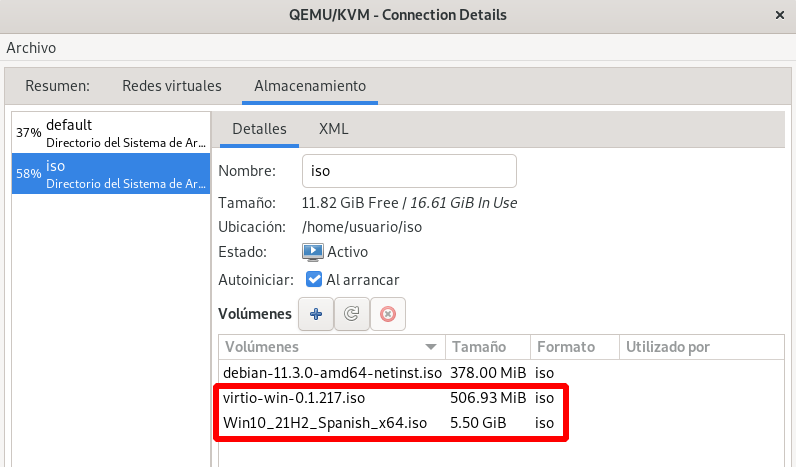
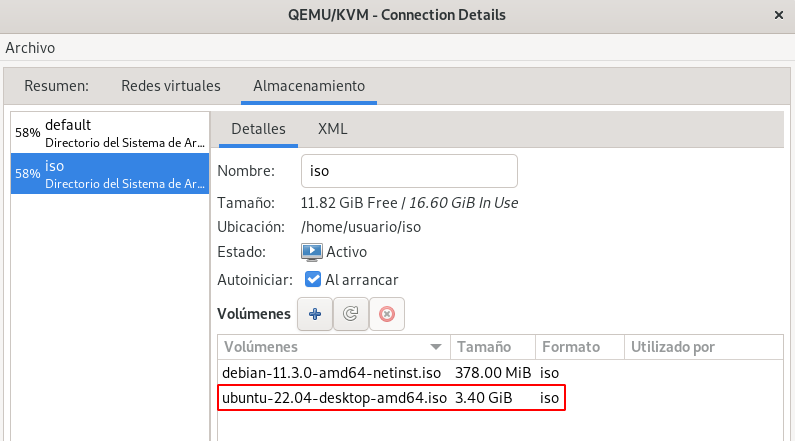
modulo4

Changed region(s): [[0.0, 0.0, 1.0, 1.0]]

diff --git a/modulo4/linux.md b/modulo4/linux.md
@@ -1,0 +1,50 @@
+# Creación de máquinas virtuales Linux
+
+Vamos a estudiar los pasos fundamentales para la creación de una máquina virtual. en este caso vamos a crear una máquina virtual con el sistema operativo GNU/Linux Ubuntu. Observaremos que la información que vamos indicando en virt-manager es la misma que utilizamos para la creación d máquinas con la herramienta `virt-install`.
+
+Antes de empezar la creación de la nueva máquina, hemos copiado en el pool de almacenamiento **ISO** (directorio `~/iso`) una imagen ISO para la instalación de Ubuntu:
+
+![virt-manager](img/virt-manager7.png)
+
+Para crear una nueva máquina virtual con virt-manager podemos escoger la opción de menú **Archivo -> Nueva máquina virtual**, o el botón del menú:
+
+![virt-manager](img/virt-manager6.png)
+
+A continuación seguimos los pasos del asistente para la creación de la máquina virtual:
+
+## Elegir la fuente de instalación del sistema operativo
+
+Elegimos como fuente de instalación: instalación local desde una imagen ISO que se montará en un CDRON. En este apartado también podemos escoger la arquitectura de la máquina que vamos a utilizar.
+
+![virt-manager](img/virt-manager8.png)
+
+## Seleccionar la ISO de instalación
+
+Elegimos fichero ISO desde donde vamos a relalizar la instalación. Si no se detecta la variante del sistema operativo, tenemos que añadirla manualmente escogiendo la versión más parecida a la que vamos a instalar.
+
+![virt-manager](img/virt-manager9.png)
+
+## Configuración de memoria y de VCPU
+
+A continuación, asignamos la memoria y el número de vCPU a la nueva máquina que estamos creando.
+
+![virt-manager](img/virt-manager10.png)
+
+## Seleccionar almacenamiento
+
+En este paso, habilitamos el almacenamiento para la nueva máquina, indicando el tamaño del disco.
+
+![virt-manager](img/virt-manager11.png)
+
+## Resumen y selección de red
+
+Por último, aparece un resumen de las características de la máquina que vamos a crear. Además, podemos indicar el nombre y seleccionar la red a la que queremos que se conecte (en nuestro caso, la red de tipo NAT `default`). Si la red no está activa, nos dará la opción de activarla.
+
+![virt-manager](img/virt-manager12.png)
+
+## Comenzamos la instalación
+
+Al pulsar el botón **Finalizar**, se crea la máquina, se inicializa y se abre la consola para que podamos empezar la instalación.
+
+![virt-manager](img/virt-manager13.png)
+

diff --git a/modulo4/windows.md b/modulo4/windows.md
@@ -1,8 +1,6 @@
 # Creación de máquinas virtuales Windows
 
-Para crear una nueva máquina virtual con virt-manager podemos escoger la opción de menú **Archivo -> Nueva máquina virtual**, o el botón del menú:
 
-![virt-manager](img/virt-manager6.png)
 
 El proceso que vamos a seguir sería similar al de la creación de una máquina virtual con el sistema operativo Linux, pero en este apartado vamos a hacer una instalación de Windows en la nueva máquina virtual. La diferencia entre Windows y Linux, es que tenemos que tener en cuenta que Windows no tiene soporte nativo para dispositivos VirtIO. Por lo tanto, a la hora de crear una máquina virtual Windows tendremos que añadir los controladores de dispositivos (drivers) necesarios para que Windows identifique los dispositivos VirtIO que definamos en la máquina virtual.
 
@@ -12,7 +10,7 @@ En este caso, el proyecto Fedora proporciona controladores de dispositivos de so
 
 Podemos bajar la última versión de los drivers VirtIO para Windows en el siguiente [enlace](https://fedorapeople.org/groups/virt/virtio-win/direct-downloads/stable-virtio/virtio-win.iso) y copiar la ISO al pool de almacenamiento ISO, es decir, en el directorio `~/iso`. También hemos copiado a ese directorio una ISO para la instalación de Windows 10.
 
-![virt-manager](img/virt-manager7.png)
+![virt-manager](img/virt-manager.png)
 
 ## Elegir la fuente de instalación del sistema operativo
 

diff --git a/README.md b/README.md
@@ -26,7 +26,7 @@ Curso sobre virtualización en sistemas operativos Linux con QEMU/KVM, libvirt, 
 
 4. Creación de máquinas virtuales con virt-manager
 	* [Primeros pasos con virt-manager](modulo4/instalacion.md)
-	* Creación de máquinas virtuales Linux
+	* [Creación de máquinas virtuales Linux](modulo4/linux.md)
 	* Gestión de máquinas virtuales
 	* Detalles de las máquinas virtuales
 	* Creación de máquinas virtuales Windows
